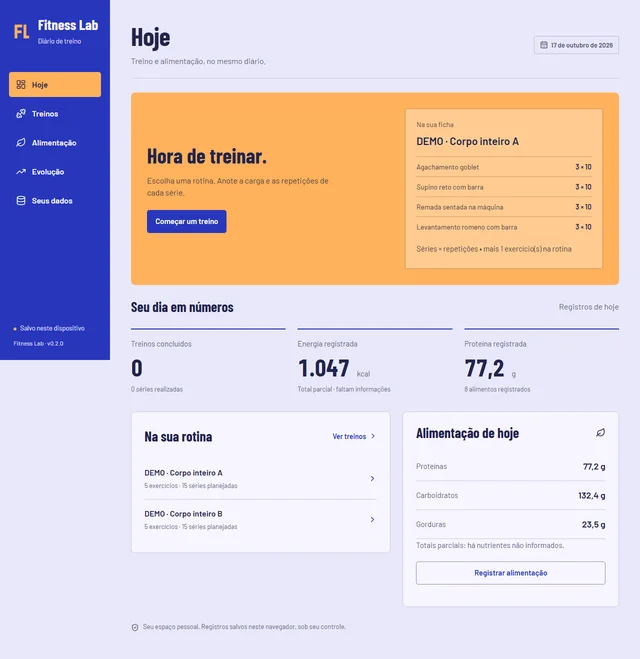
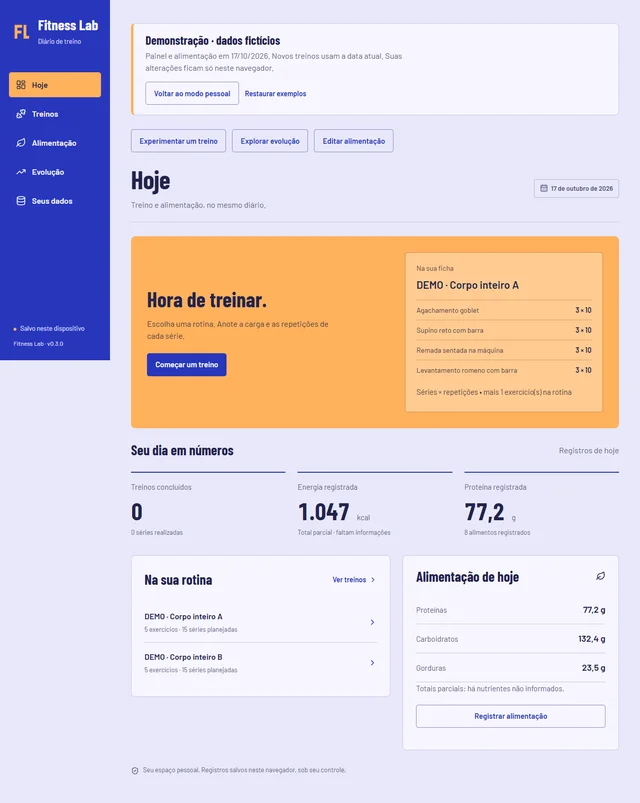
feat: connect verified Nextage and Fitness public demos

diff --git a/src/content.ts b/src/content.ts
@@ -27,18 +27,20 @@ export const projects: Project[] = [
     id: 'nextage',
     name: 'Nextage Class',
     category: 'Organização de aulas',
-    status: 'Demo local • piloto em desenvolvimento',
+    status: 'Demo pública • piloto em desenvolvimento',
     description: 'Uma agenda que conecta cada aula à continuidade do aluno.',
     focus:
       'Planejamento, registro pedagógico e pedidos de horário para professores particulares de idiomas.',
     technologies: ['React', 'TypeScript', 'ASP.NET Core no piloto', 'PostgreSQL no piloto'],
     code: 'https://github.com/cristianworth/nextage-class',
+    demo: 'https://cristianworth.github.io/nextage-class/',
     caseSlug: 'nextage-class',
     image: 'nextage',
-    imageAlt: 'Nextage Class: agenda semanal e acompanhamento de alunos fictícios na demo local.',
+    imageAlt: 'Nextage Class: agenda semanal e acompanhamento de alunos fictícios na demo pública.',
     imageWidth: 1440,
-    imageHeight: 960,
-    demoNote: 'A demo local usa dados fictícios. O piloto com servidor é uma frente separada.',
+    imageHeight: 1416,
+    demoNote:
+      'Sem login. Dados fictícios neste navegador; o piloto com servidor é uma frente separada.',
   },
   {
     id: 'worklog',
@@ -63,17 +65,19 @@ export const projects: Project[] = [
     id: 'fitness',
     name: 'Fitness Lab',
     category: 'Treinos e alimentação',
-    status: 'Aplicação local',
+    status: 'Demo pública com dados fictícios',
     description: 'Treinos, alimentação e evolução no mesmo diário.',
     focus:
       'Sessões retomáveis, histórico com contexto e backup dos registros armazenados no navegador.',
     technologies: ['React', 'TypeScript', 'IndexedDB'],
     code: 'https://github.com/cristianworth/fitness-lab',
-    demoNote: 'Demonstração isolada disponível na execução local. Publicação online em validação.',
+    demo: 'https://cristianworth.github.io/fitness-lab/?mode=demo',
+    demoNote:
+      'Sem conta. Dados sintéticos em banco isolado no navegador; restauração mediante confirmação.',
     image: 'fitness',
     imageAlt: 'Fitness Lab: painel de treino e alimentação preenchido com dados sintéticos.',
     imageWidth: 1280,
-    imageHeight: 1318,
+    imageHeight: 1605,
   },
   {
     id: 'gacha',
@@ -200,6 +204,10 @@ export const cases: CaseStudy[] = [
       },
     ],
     evidence: [
+      {
+        label: 'Roteiro da demonstração pública',
+        url: 'https://github.com/cristianworth/nextage-class/blob/master/docs/public-demo.md',
+      },
       {
         label: 'Visão de produto e participação',
         url: 'https://github.com/cristianworth/nextage-class/blob/master/docs/product-vision.md',

diff --git a/src/App.tsx b/src/App.tsx
@@ -568,7 +568,7 @@ function CasePage({ study }: { study: CaseStudy }) {
             <figcaption>
               Captura real da interface com dados demonstrativos.{' '}
               {project.id === 'nextage'
-                ? 'A simulação local é separada do piloto com servidor.'
+                ? 'A demonstração é separada do piloto com servidor.'
                 : 'O envio apresentado na demo é simulado.'}
             </figcaption>
           </figure>
@@ -667,7 +667,7 @@ function Credits() {
         {projects.map((p) => (
           <li key={p.id}>
             <a
-              href={`${p.code}/blob/${['nextage', 'worklog'].includes(p.id) ? 'master' : 'main'}/docs/images/${({ nextage: 'overview.png', worklog: 'demo.png', fitness: 'dashboard-desktop.png', gacha: 'overview.png', weather: 'desktop.png' } as Record<string, string>)[p.id]}`}
+              href={`${p.code}/blob/${['nextage', 'worklog'].includes(p.id) ? 'master' : 'main'}/docs/images/${({ nextage: 'overview.png', worklog: 'demo.png', fitness: 'public-demo-desktop.png', gacha: 'overview.png', weather: 'desktop.png' } as Record<string, string>)[p.id]}`}
             >
               {p.name}: captura original
             </a>

diff --git a/docs/verification.md b/docs/verification.md
@@ -16,7 +16,7 @@ Data: 29/10/2026. Escopo: este portfólio, sem executar novamente as suítes dos
 
 ## Links e conteúdo
 
-Repositórios, documentos dos cases e fontes de capturas responderam com HTTP 200. Worklog e Weather responderam e foram identificados como os produtos esperados. A checagem automatizada do LinkedIn retornou 999, bloqueio do serviço; o endereço é o fornecido por Cristian. As páginas do próprio portfólio serão reconferidas após o deploy.
+Repositórios, documentos dos cases e fontes de capturas responderam com HTTP 200. Worklog, Weather, Nextage e Fitness foram abertos e identificados como os produtos esperados. Nextage e Fitness concluíram suas publicações durante esta entrega; as URLs documentadas foram verificadas antes da inclusão. A checagem automatizada do LinkedIn retornou 999, bloqueio do serviço; o endereço é o fornecido por Cristian.
 
 Revisão independente das fontes conferiu separação demo/piloto, assistência de IA, uso de TeamCity, autoria pontual de testes e interesses futuros. Não há currículo presumido, anos, métricas ou resultados profissionais inventados.
 
@@ -24,9 +24,13 @@ Revisão independente das fontes conferiu separação demo/piloto, assistência 
 
 - Não houve execução em aparelho físico, Safari ou Firefox, nem auditoria por leitor de tela. A revisão responsiva usou viewport do navegador.
 - Os testes do site não certificam os fluxos das aplicações externas.
-- Nextage e Fitness têm trabalho de publicação em andamento em outros chats; não foram incluídas URLs presumidas.
+- Os fluxos completos de Nextage e Fitness pertencem às validações dos respectivos projetos. Aqui foram conferidos entrada, identificação da demo e destinos dos links.
 - OCR não tem captura pública elegível. Gacha compartilhado não é apresentado como demo descartável.
 
 ## Publicação
 
-GitHub Pages habilitado com source GitHub Actions no repositório público `cristianworth/portfolio`. O resultado da execução e a conferência pública são registrados após o primeiro push.
+GitHub Pages habilitado com source GitHub Actions no repositório público `cristianworth/portfolio`. [Primeira publicação aprovada](https://github.com/cristianworth/portfolio/actions/runs/40930290331), a partir do commit `438a099`.
+
+A conferência HTTP pública retornou 200 para início, os dois cases e créditos, com títulos/canonical específicos e conteúdo pré-renderizado. Um caminho inexistente retornou 404 com a página própria. JS, CSS, favicon e as cinco capturas responderam com 200. Os dois cases foram abertos diretamente e recarregados em desktop e celular. As seis imagens da página inicial carregaram no navegador, sem erros de console observados.
+
+Capturas da revisão local ficam em `work/qa/` (ignoradas pelo Git): desktop, celular, página completa e os dois cases em ambas as larguras. Relatórios HTTP ficam em `work/link-report.json` e `work/public-report.json`. A entrega do chat inclui as capturas finais.

diff --git a/NOTICE.md b/NOTICE.md
@@ -6,7 +6,7 @@ Product captures are reproduced with Cristian's authorization from public projec
 | ------------------ | ------------------------------------------------------------------------------------------------------------------- | ----------------------------------------------------------------------------------------------------------------------------------------------------------------------------------------------------------------------------- |
 | nextage            | [Nextage Class](https://github.com/cristianworth/nextage-class/blob/master/docs/images/overview.png)                | Fictitious demo. Reproduction authorized; no source-project license inferred.                                                                                                                                                 |
 | worklog            | [Worklog](https://github.com/cristianworth/worklog-for-redmine/blob/master/docs/images/demo.png)                    | MIT project; demo data. Original file contains JPEG despite its extension.                                                                                                                                                    |
-| fitness            | [Fitness Lab](https://github.com/cristianworth/fitness-lab/blob/main/docs/images/dashboard-desktop.png)             | MIT project; synthetic dataset, as documented in its NOTICE.                                                                                                                                                                  |
+| fitness            | [Fitness Lab](https://github.com/cristianworth/fitness-lab/blob/main/docs/images/public-demo-desktop.png)           | MIT project; synthetic dataset, as documented in its NOTICE.                                                                                                                                                                  |
 | gacha              | [Gacha Management Cloud](https://github.com/cristianworth/GachaManagement-cloud/blob/main/docs/images/overview.png) | Demonstration profile. Game logos/icons and brands belong to their respective owners, including HoYoverse. The Sangonomiya illustration was generated and approved in the source project. No fan-art attribution is inferred. |
 | weather            | [Weather Lab](https://github.com/cristianworth/weather-lab/blob/main/docs/images/desktop.png)                       | MIT project. Weather data: [Open-Meteo](https://open-meteo.com/); location: [GeoNames](https://www.geonames.org/), CC BY 4.0. Capture reflects a historical forecast.                                                         |
 

diff --git a/README.md b/README.md
@@ -38,6 +38,6 @@ Leia o [guia de manutenção](docs/maintenance.md) antes de adicionar uma demo o
 
 O workflow `.github/workflows/pages.yml` compila, verifica e publica somente `dist` em cada push para `main`. Pages precisa estar configurado com source **GitHub Actions**. Configuração baseada nos guias oficiais de [Vite](https://vite.dev/guide/static-deploy.html#github-pages) e [GitHub Pages](https://docs.github.com/en/pages/getting-started-with-github-pages/using-github-actions-for-github-pages).
 
-As demos dos projetos têm suas próprias garantias e estágios. Worklog simula o envio; Gacha Cloud tem perfis compartilhados e não é oferecido como demo descartável; OCR é laboratório local. Nextage e Fitness só ganham links online após verificação. A assistência de IA está declarada, e a prática profissional é separada do aprendizado em projetos.
+As demos dos projetos têm suas próprias garantias e estágios. Nextage demonstra dados fictícios e é separado do piloto com servidor; Worklog simula o envio; Fitness usa um banco demonstrativo isolado. Essas demos e Weather têm URLs públicas verificadas. Gacha Cloud tem perfis compartilhados e não é oferecido como demo descartável; OCR é laboratório local. A assistência de IA está declarada, e a prática profissional é separada do aprendizado em projetos.
 
 Código e conteúdo originais sob [MIT](LICENSE). Materiais de terceiros em [NOTICE.md](NOTICE.md). Este site foi implementado com assistência de IA a partir do escopo e das evidências fornecidas por Cristian.

diff --git a/CHANGELOG.md b/CHANGELOG.md
@@ -6,6 +6,7 @@ Use semantic versioning for a coherent release, rather than incrementing for eac
 
 - First portfolio in Brazilian Portuguese, with professional experience, selected projects and contact links.
 - Two evidence-based cases: Nextage Class and Worklog for Redmine.
+- Verified public demo links for Nextage, Worklog and Fitness, plus the Weather application.
 - Responsive blue, indigo and cyan identity, real product captures, local fonts and reduced-motion support.
 - Pre-rendered static routes, page metadata, sharing image, favicon, sitemap and custom 404.
 - GitHub Pages deployment workflow, route tests and build verification.

diff --git a/docs/content-sources.md b/docs/content-sources.md
@@ -31,4 +31,4 @@ Não impedem a publicação:
 - Disponibilizar currículo revisado se desejar um link de download.
 - Autorizar um exemplo público do OCR antes de incluir captura.
 
-URLs de Nextage/Fitness dependem da conclusão e verificação da hospedagem nos respectivos projetos, não de inventar um endereço.
+As demos de Nextage e Fitness foram publicadas pelos respectivos projetos durante esta entrega. As URLs documentadas foram abertas e verificadas antes de serem incorporadas. O parâmetro `?mode=demo` do Fitness entra diretamente no banco fictício isolado.
